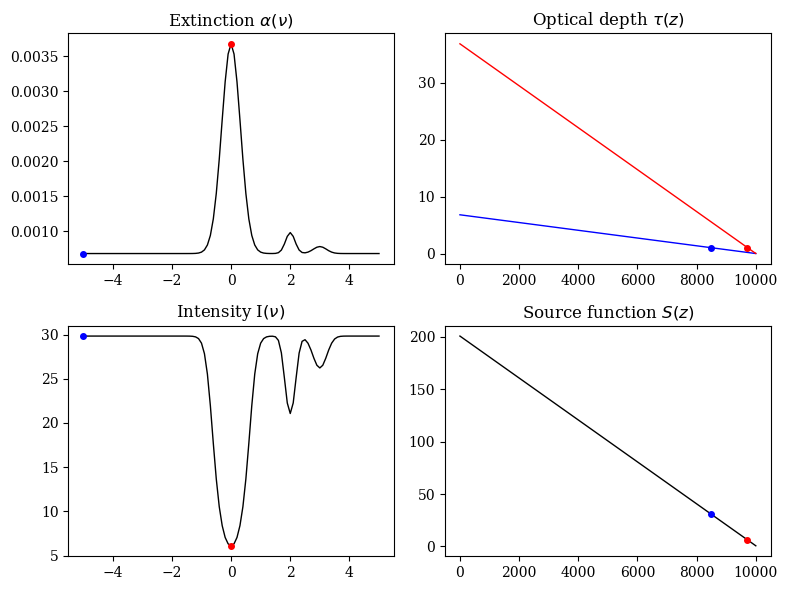
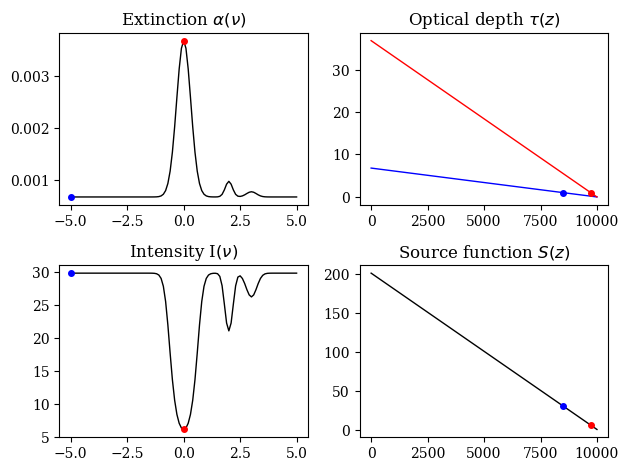
Cleaning up

diff --git a/project-1/line_profiles.py b/project-1/line_profiles.py
@@ -8,73 +8,120 @@ plt.rcParams.update({
     'lines.linewidth': 1
 })
 
-def gaussian_profile(frequency, mult_peak=False, baseline=0.1, slope=0.01, scale=100):
-    continuum = slope * frequency + baseline
+def gaussian_profile(frequency, mult_peaks=False, baseline=0.1, slope=0.01, scale=100):
+    '''
+    Compute a Gaussian profile as function of frequency, on the form
 
-    a, c = (1, 1) if not mult_peak else (3, 0.2)
+        f(x) = a * exp(-x^2 / c) + continuum
 
-    exp1 = a * (np.exp(-frequency**2 / c) + continuum) / scale
-    exp2 = 0.3 * (np.exp(-(frequency - 2)**2 / 0.05) + continuum) / scale
-    exp3 = 0.1 * (np.exp(-(frequency - 3)**2 / 0.1) + continuum) / scale
-    mult = exp1 + exp2 + exp3 
+    Parameters:
+    -----------
+    frequency : array_like 
+        Array containing the frequencies.
 
-    return exp1 if not mult_peak else mult
+    mult_peaks : bool, default=False 
+        If set to True, a Gaussian profile with 3 peaks will be returned.
 
-def make_panels(profile_func='gaussian', source_func='exp', mult_mu=False):
+    baseline : float, default=0.1
+        The continuum is considered to be on the form y = a + bx, where a is the baseline.
 
-    figname = source_func
-    figname += 'mult.png' if mult_mu else '.png'
+    slope : float, default=0.01
+        Slope of the continuum (see baseline).
 
+    scale : int or float, default=100
+        The returned profile will be scaled down with this value, ie. if G is the Gaussian, the 
+        returned value is G/scale.
+
+    Returns:
+    --------
+    array_like
+        The Gaussian profile with 1 or 3 peaks plus the baseline.
+    '''
+    cont = baseline + slope * frequency # Continuum
+
+    # Selecting a, c depending on the number of peaks
+    a, c = (1, 1) if not mult_peaks else (3, 0.2)
+
+    exp1 = a * (np.exp(-frequency**2 / c) + cont) / scale
+    exp2 = 0.3 * (np.exp(-(frequency - 2)**2 / 0.05) + cont) / scale
+    exp3 = 0.1 * (np.exp(-(frequency - 3)**2 / 0.1) + cont) / scale
+    
+    profile = exp1 + exp2 + exp3 if mult_peaks else exp1
+
+    return profile   
+
+def make_panels(profile_func='gaussian', source_func='gaussian', mult_mu=False):
+    '''
+    Create four panels for visualising the extinction, optical depth, intensity, and source function.
+
+    Parameters:
+    -----------
+    profile_func : callable or tuple, optional
+        The function describing the extinction profile. User can provide their own if they want.
+        Default is the `gaussian_profile`. If a `tuple`, the elements are (bool, float, float, float),
+        representing the arguments of the `gaussian_profile`.
+
+    source_func : string, optional 
+        Form of the source function. The two forms are:
+
+            * 'gaussian' (default): Gaussian function on the form S(x) = exp[-(x - 500)^2 / (1.5*10^5)] + 0.65
+            * 'linear': Linear function on the form S(x) = 2x / 100 + 0.65
+
+    mult_mu : bool, default=False
+        If True, the intensity panel will display two curves, one for mu = 1, and one for mu = 0.2
+    '''
+    # Number of frequency elements.
     n = 101
 
+    # Frequency from -5 to 5.
     freq = np.linspace(-5, 5, n)
+
+    # Optical depth from 1 to 10^4 with 200 elements.
+    # Height z is the negative height plus the highest depth.
     depth = np.logspace(0, 4, 200)
     z = -depth + depth.max()
 
     if callable(profile_func):
-        profile = profile_func(freq)
-    
+        profile = profile_func
+
     else:
-        if isinstance(profile_func, str):
+        if profile_func == 'gaussian':
             profile = gaussian_profile(freq)
-        
+
         elif isinstance(profile_func, tuple):
-            mult_peak, baseline, slope, scale = profile_func
+            mult_peaks, baseline, slope, scale = profile_func
             profile = gaussian_profile(
                 freq,
-                mult_peak=mult_peak,
+                mult_peaks=mult_peaks,
                 baseline=baseline,
                 slope=slope,
                 scale=scale
             )
-    
-    alpha = np.tile(profile, (len(z), 1))
 
-    tau = cumtrapz(alpha, -z, axis=0, initial=1e-3)
-    tau_z0 = np.argwhere(tau[:, 0] >= 1)[0]
+    # Extinction and optical depth
+    alpha = np.tile(profile, (len(z), 1))
+    tau   = cumtrapz(alpha, -z, axis=0, initial=1e-3)
+
+    # Get the indicies where tau = 1
+    tau_z0    = np.argwhere(tau[:, 0] >= 1)[0]
     tau_zhalf = np.argwhere(tau[:, 50] >= 1)[0]
 
-    exp = np.exp(-(depth - 500)**2 / 1.5e5) + 0.65
-    exp2 = np.exp((depth - 500)**2 / 1e9) - 0.65
-    linear = depth / 100 * 2 + 0.65
+    # Source functions
+    gauss = np.exp(-(depth - 500)**2 / 1.5e5) + 0.65
+    lin   = 2 * depth / 100 + 0.65
 
     S_func = {
-        'exp': exp,
-        'exp2': exp2,
-        'linear': linear
+        'gaussian': gauss,
+        'linear'  : lin
     }
-
-    try: 
-        S = S_func[source_func]
     
-    except KeyError:
-        print('The key ' + source_func + ' is not valid. Possible keys are:\n')
-        [print(key) for key in S_func]
-        exit()
+    S = S_func[source_func]
 
+    # Intensity
     I = np.trapz(S[:, np.newaxis] * np.exp(-tau), tau, axis=0)
-    
-    fig, axes = plt.subplots(2, 2, figsize=(8, 6))
+
+    # Create the figure 
+    fig, axes = plt.subplots(2, 2)
     ax1, ax2, ax3, ax4 = axes.flatten()
 
     ax1.set_title(r'Extinction $\alpha(\nu)$')
@@ -106,10 +153,13 @@ def make_panels(profile_func='gaussian', source_func='exp', mult_mu=False):
     ax4.plot(z[tau_zhalf], S[tau_zhalf], 'ro')
 
     fig.tight_layout()
+    figname = source_func + 'mult' if mult_mu else source_func
     fig.savefig('figures/' + figname, bbox_inches='tight')
 
-make_panels()
-make_panels(profile_func=(True, 0.2, 0, 1000), source_func='linear')
-make_panels(profile_func=(False, 0.2, 0, 1000), source_func='linear', mult_mu=True)
+if __name__ == '__main__':
 
-plt.show()
+    make_panels()
+    make_panels(profile_func=(True, 0.2, 0, 1000), source_func='linear')
+    make_panels(profile_func=(False, 0.2, 0, 1000), source_func='linear', mult_mu=True)
+
+    plt.show()
